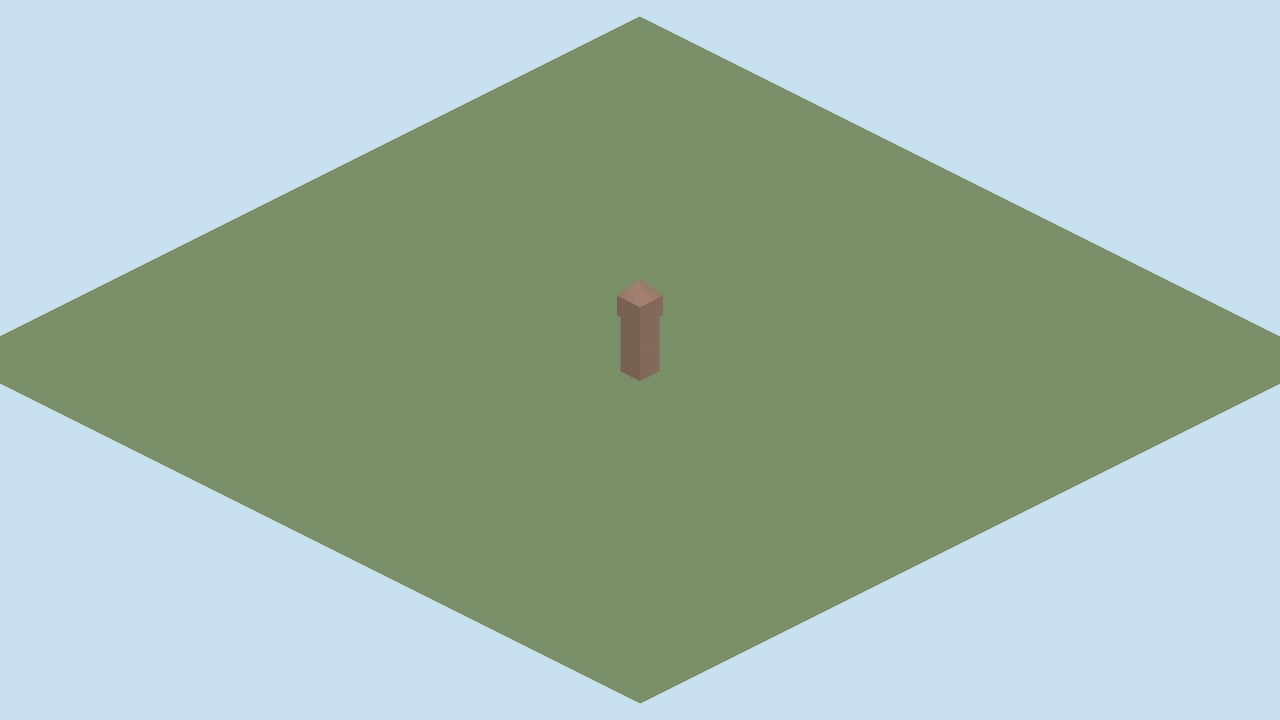
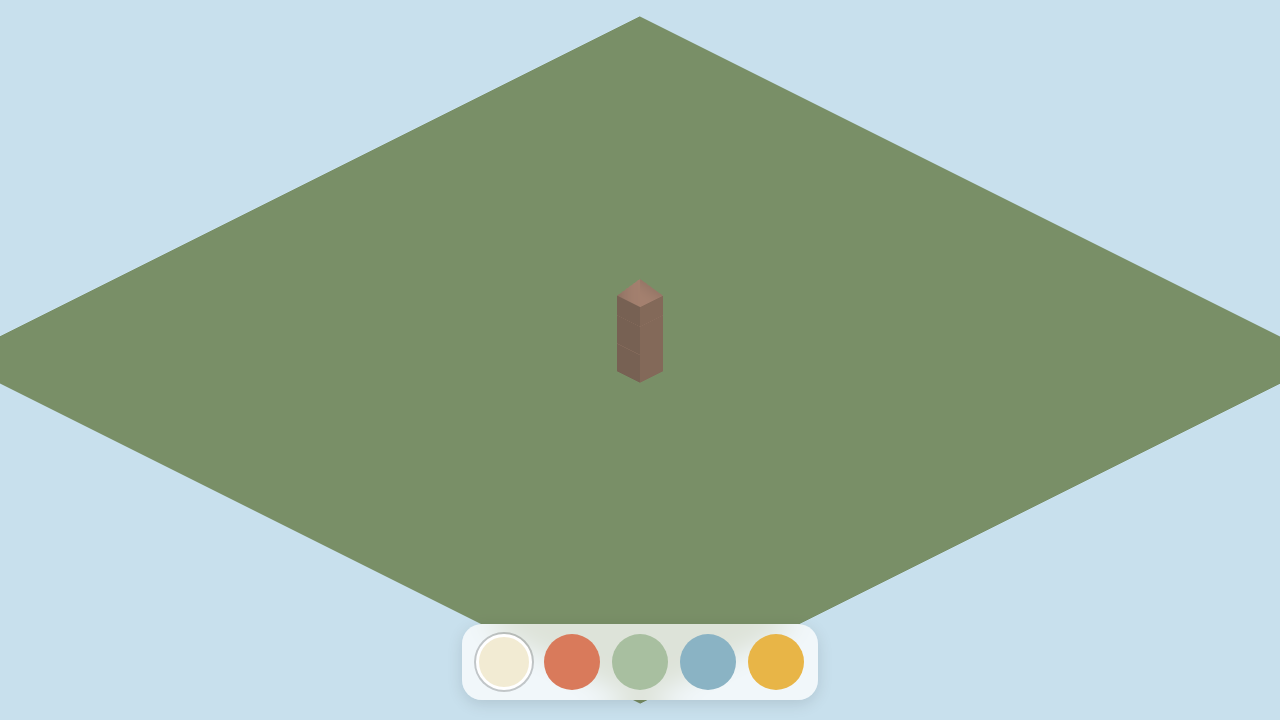
[fix] Remove horizontal gaps between non-roof cells (#14)
User spotted: an L-shaped structure showed a thin grass stripe
between adjacent cells. Adding another block at the right spot
transitioned a 'corner' cell into 'wall' (both ends filled) and
the strip disappeared — diagnostic that pinpointed the bug.

Cause: T-008 used non-1.0 width (0.85 freestanding, 0.95 corner)
to differentiate silhouettes. That works fine when isolated, but
a narrow cell next to a wide one (wall/roof, both 1.0) leaves
0.05-0.15 of grass visible at the shared face.

Fix: all non-roof geometries now plain 1×1×1. Wall, freestanding,
and corner render identically — their visual differentiation is
deferred. In practice this is fine because:
- Freestanding's top (where we'd put detail) is ALWAYS hidden by
  the cell above (hasAbove=true is its precondition).
- Corner has 1 horizontal neighbor + above; its visible faces are
  vertical sides where any deformation would still create gaps.
- Future differentiation (vertex manipulation within 1×1×1 bounds)
  is possible but out of MVP scope.

Also: roof pyramid radius tightened from 0.71 → √2/2 exactly so
bbox tests pass at full precision (the rounding was drifting by
~0.002 on the X/Z extent).

Regression E2E added: bbox on wall/freestanding/corner must span
[-0.5, +0.5] on EVERY axis (X, Y, Z). Catches any future attempt
to shrink.

Silhouette height delta stays at 30% (wall 1.0 vs roof 1.3), so
T-008 DoD (≥15%) remains satisfied.

Changed region(s): [[0.3438, 0.8556, 0.6562, 0.9778]]

diff --git a/tests/e2e/T-008-tile-geometries.spec.js b/tests/e2e/T-008-tile-geometries.spec.js
@@ -132,6 +132,48 @@ test.describe('T-008: 4 distinct tile geometries', () => {
     await page.screenshot({ path: 'docs/screenshots/T-008-tower-closeup.png' });
   });
 
+  test('non-roof cells have NO horizontal gaps (regression for fix/horizontal-gaps)', async ({ page }) => {
+    await page.goto('/');
+    await page.waitForSelector('canvas#canvas');
+    await page.waitForTimeout(200);
+
+    // All non-roof geometries must fill the full 1×1×1 cell in ALL axes
+    // (not just Y) — otherwise adjacent cells at the same level show a
+    // horizontal slit of grass/ground between them.
+    const extents = await page.evaluate(() => {
+      const r = window.__game__.renderer;
+      const out = {};
+      for (const [tileType, pool] of Object.entries(r.pools)) {
+        pool.mesh.geometry.computeBoundingBox();
+        const bb = pool.mesh.geometry.boundingBox;
+        out[tileType] = {
+          x: [bb.min.x, bb.max.x],
+          y: [bb.min.y, bb.max.y],
+          z: [bb.min.z, bb.max.z],
+        };
+      }
+      return out;
+    });
+
+    for (const tileType of ['wall', 'freestanding', 'corner']) {
+      const e = extents[tileType];
+      // Fill full cell on every axis — bbox must span [-0.5, +0.5]
+      expect(e.x[0]).toBeCloseTo(-0.5, 5);
+      expect(e.x[1]).toBeCloseTo(0.5, 5);
+      expect(e.y[0]).toBeCloseTo(-0.5, 5);
+      expect(e.y[1]).toBeCloseTo(0.5, 5);
+      expect(e.z[0]).toBeCloseTo(-0.5, 5);
+      expect(e.z[1]).toBeCloseTo(0.5, 5);
+    }
+    // Roof may protrude up (pyramid) but must still fill footprint
+    expect(extents.roof.x[0]).toBeCloseTo(-0.5, 5);
+    expect(extents.roof.x[1]).toBeCloseTo(0.5, 5);
+    expect(extents.roof.z[0]).toBeCloseTo(-0.5, 5);
+    expect(extents.roof.z[1]).toBeCloseTo(0.5, 5);
+    expect(extents.roof.y[0]).toBeCloseTo(-0.5, 5);
+    expect(extents.roof.y[1]).toBeGreaterThan(0.5);
+  });
+
   test('stacked non-roof cells have NO vertical gap (regression for fix/tile-vertical-gaps)', async ({ page }) => {
     await page.goto('/');
     await page.waitForSelector('canvas#canvas');

diff --git a/src/renderer.js b/src/renderer.js
@@ -33,17 +33,19 @@ function makeWallGeometry() {
 }
 
 function makeFreestandingGeometry() {
-  // Narrow inset pillar (0.85×1.0×0.85). Height MUST be 1.0 — otherwise
-  // stacked cells leave a horizontal gap showing the ground between
-  // floors. Differentiation from 'wall' is via XZ-inset only.
-  return new THREE.BoxGeometry(0.85, 1.0, 0.85);
+  // Plain 1×1×1 — visually identical to 'wall' on purpose.
+  // Narrowed geometries (earlier T-008 iteration) created a visible
+  // horizontal gap where a freestanding cell met a full-width wall/roof
+  // neighbor. Since freestanding always has hasAbove=true, its top is
+  // never visible anyway — so any would-be distinction can't show.
+  return new THREE.BoxGeometry(1, 1, 1);
 }
 
 function makeCornerGeometry() {
-  // Slightly inset (0.95×1.0×0.95), full height. Can't be taller than
-  // 1.0 because 'corner' requires hasAbove=true — a taller geometry
-  // would clip into the cell above.
-  return new THREE.BoxGeometry(0.95, 1.0, 0.95);
+  // Plain 1×1×1 for the same gap-avoidance reason as freestanding.
+  // Corner visual differentiation deferred to a future task where
+  // we'd need per-face vertex manipulation (not shape scaling).
+  return new THREE.BoxGeometry(1, 1, 1);
 }
 
 function makeRoofGeometry() {
@@ -53,7 +55,10 @@ function makeRoofGeometry() {
   // over wall — satisfies ≥15% silhouette delta).
   const base = new THREE.BoxGeometry(1, 0.7, 1);
   base.translate(0, -0.15, 0); // bottom at y=-0.5 (cell bottom)
-  const pyramid = new THREE.ConeGeometry(0.71, 0.6, 4);
+  // Pyramid radius = √2/2 so vertices land EXACTLY at cube corners (±0.5)
+  // after π/4 rotation. Using a rounded 0.71 left a 0.002 offset that
+  // broke the bbox regression test.
+  const pyramid = new THREE.ConeGeometry(Math.SQRT1_2, 0.6, 4);
   pyramid.rotateY(Math.PI / 4);
   pyramid.translate(0, 0.5, 0); // apex at y=+0.8 (0.3 above cell)
   return mergeGeometries([base, pyramid]);
